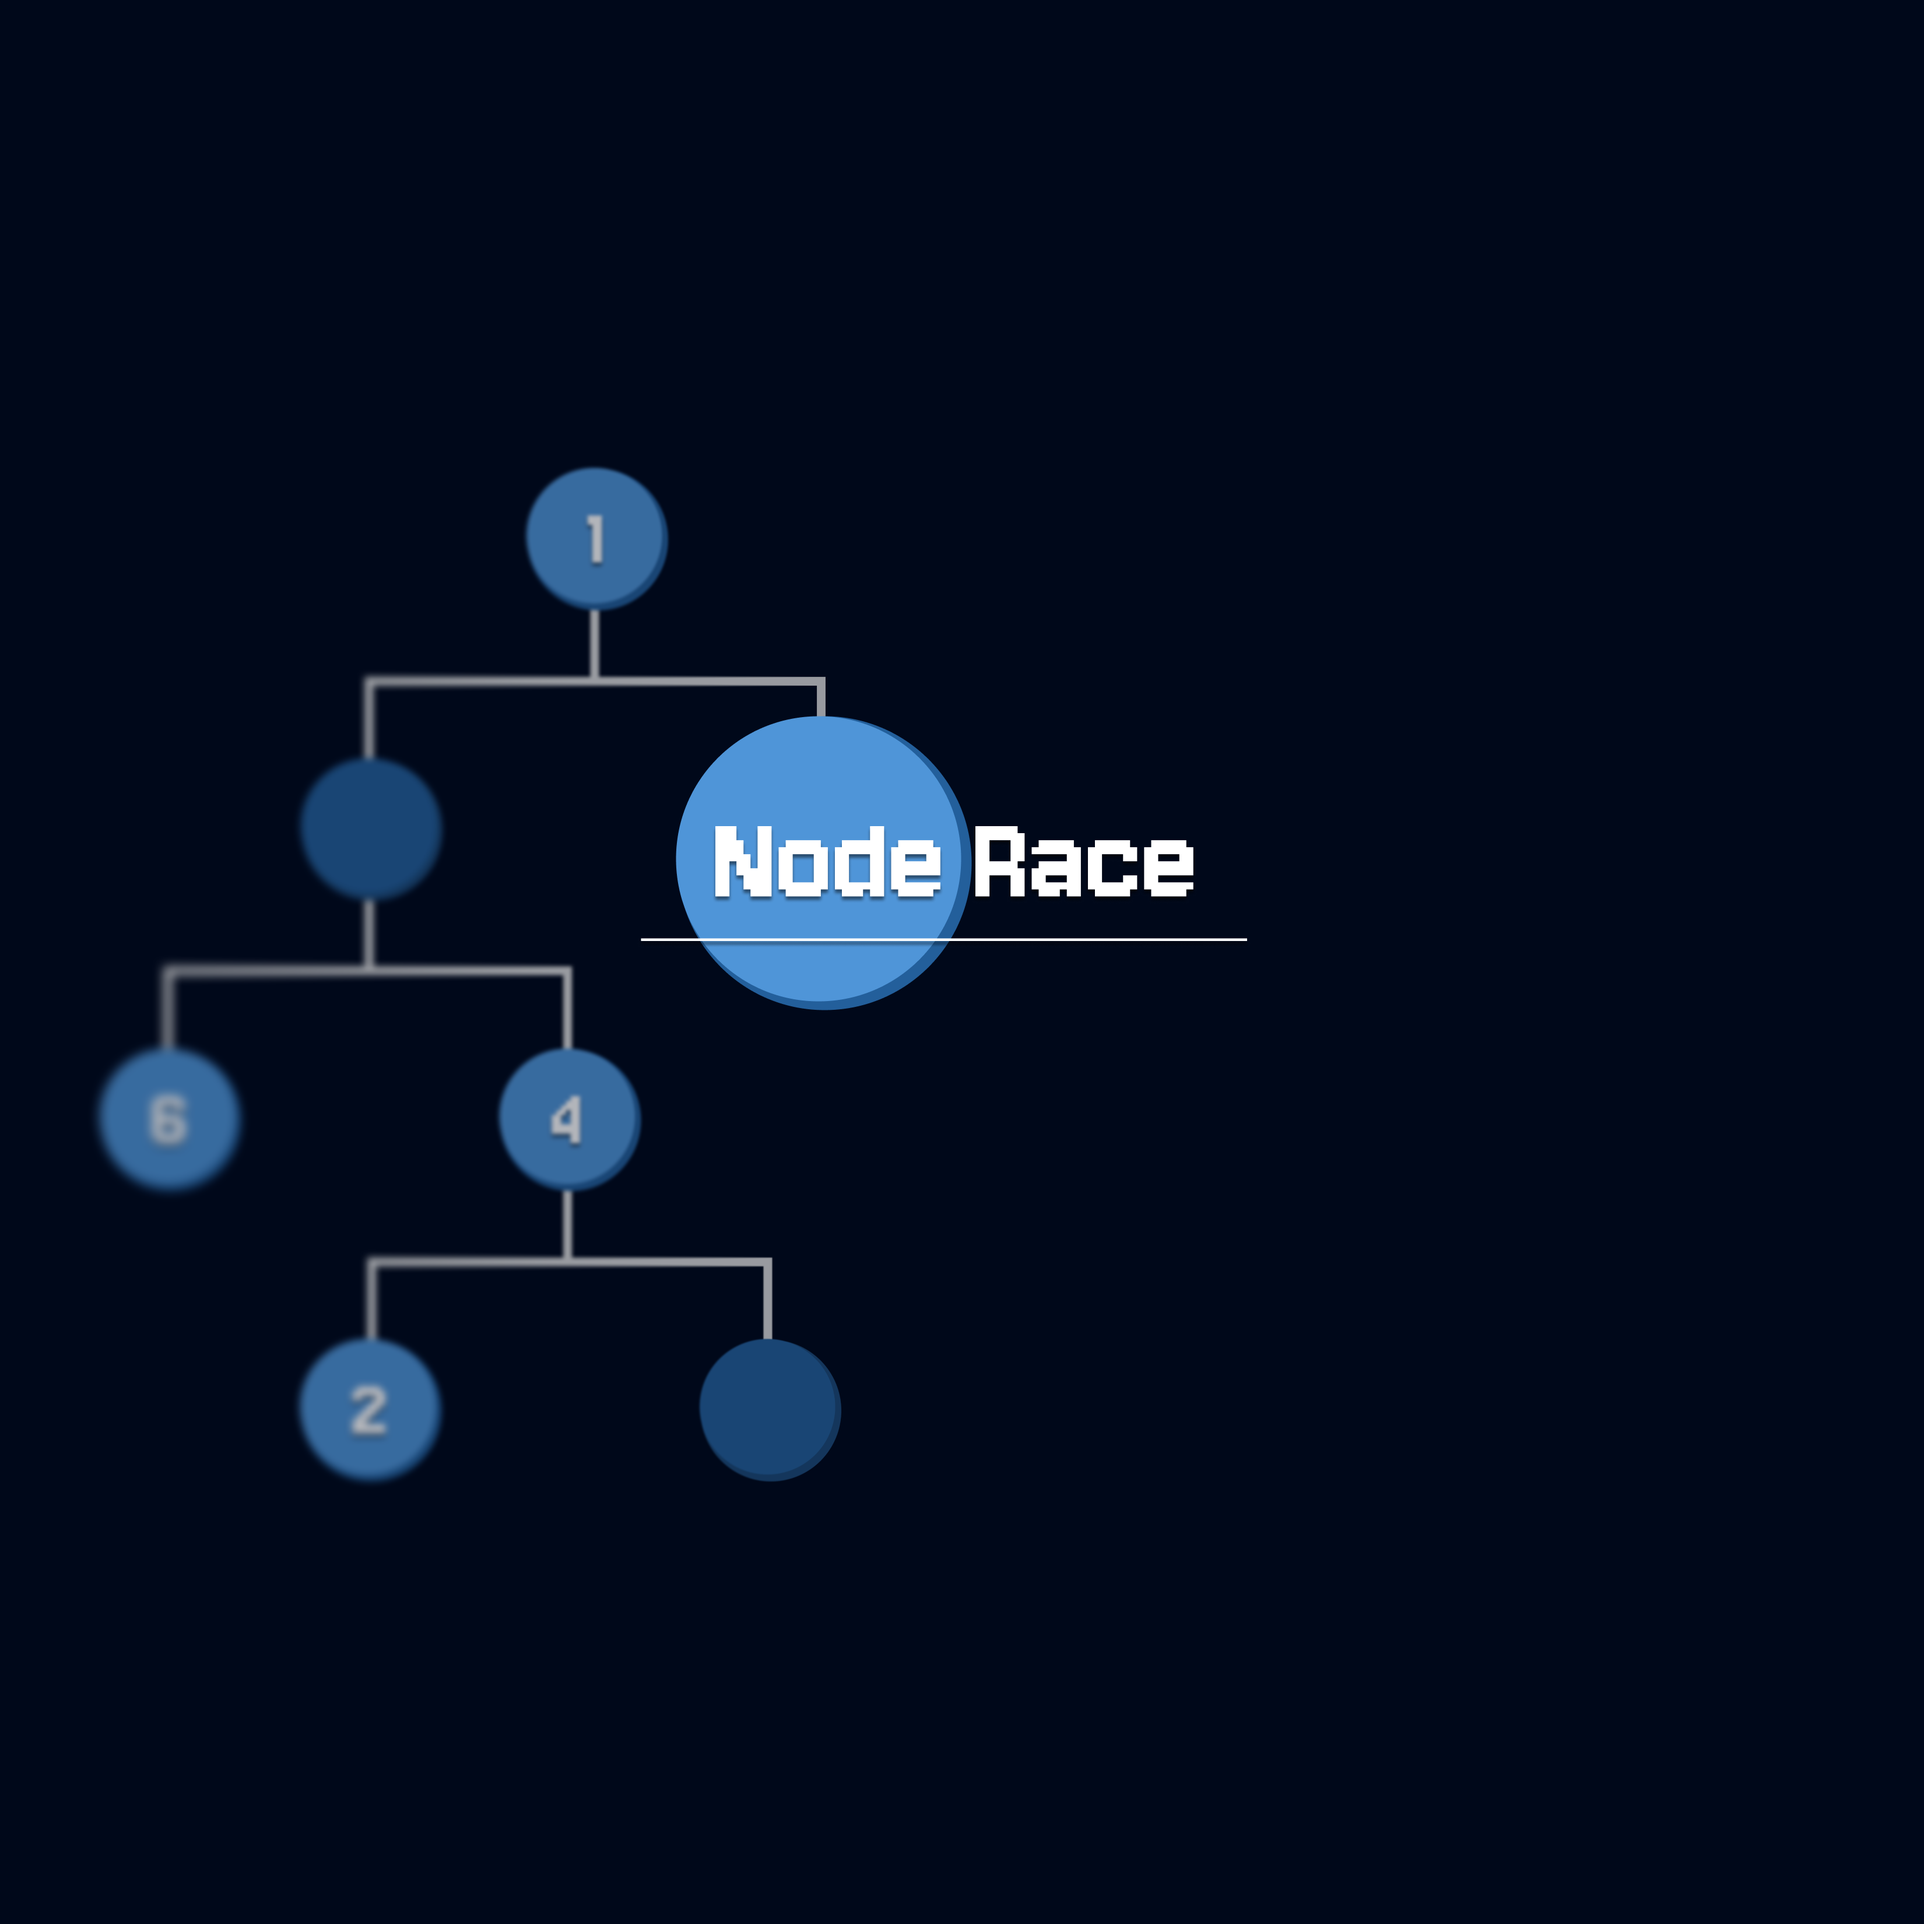
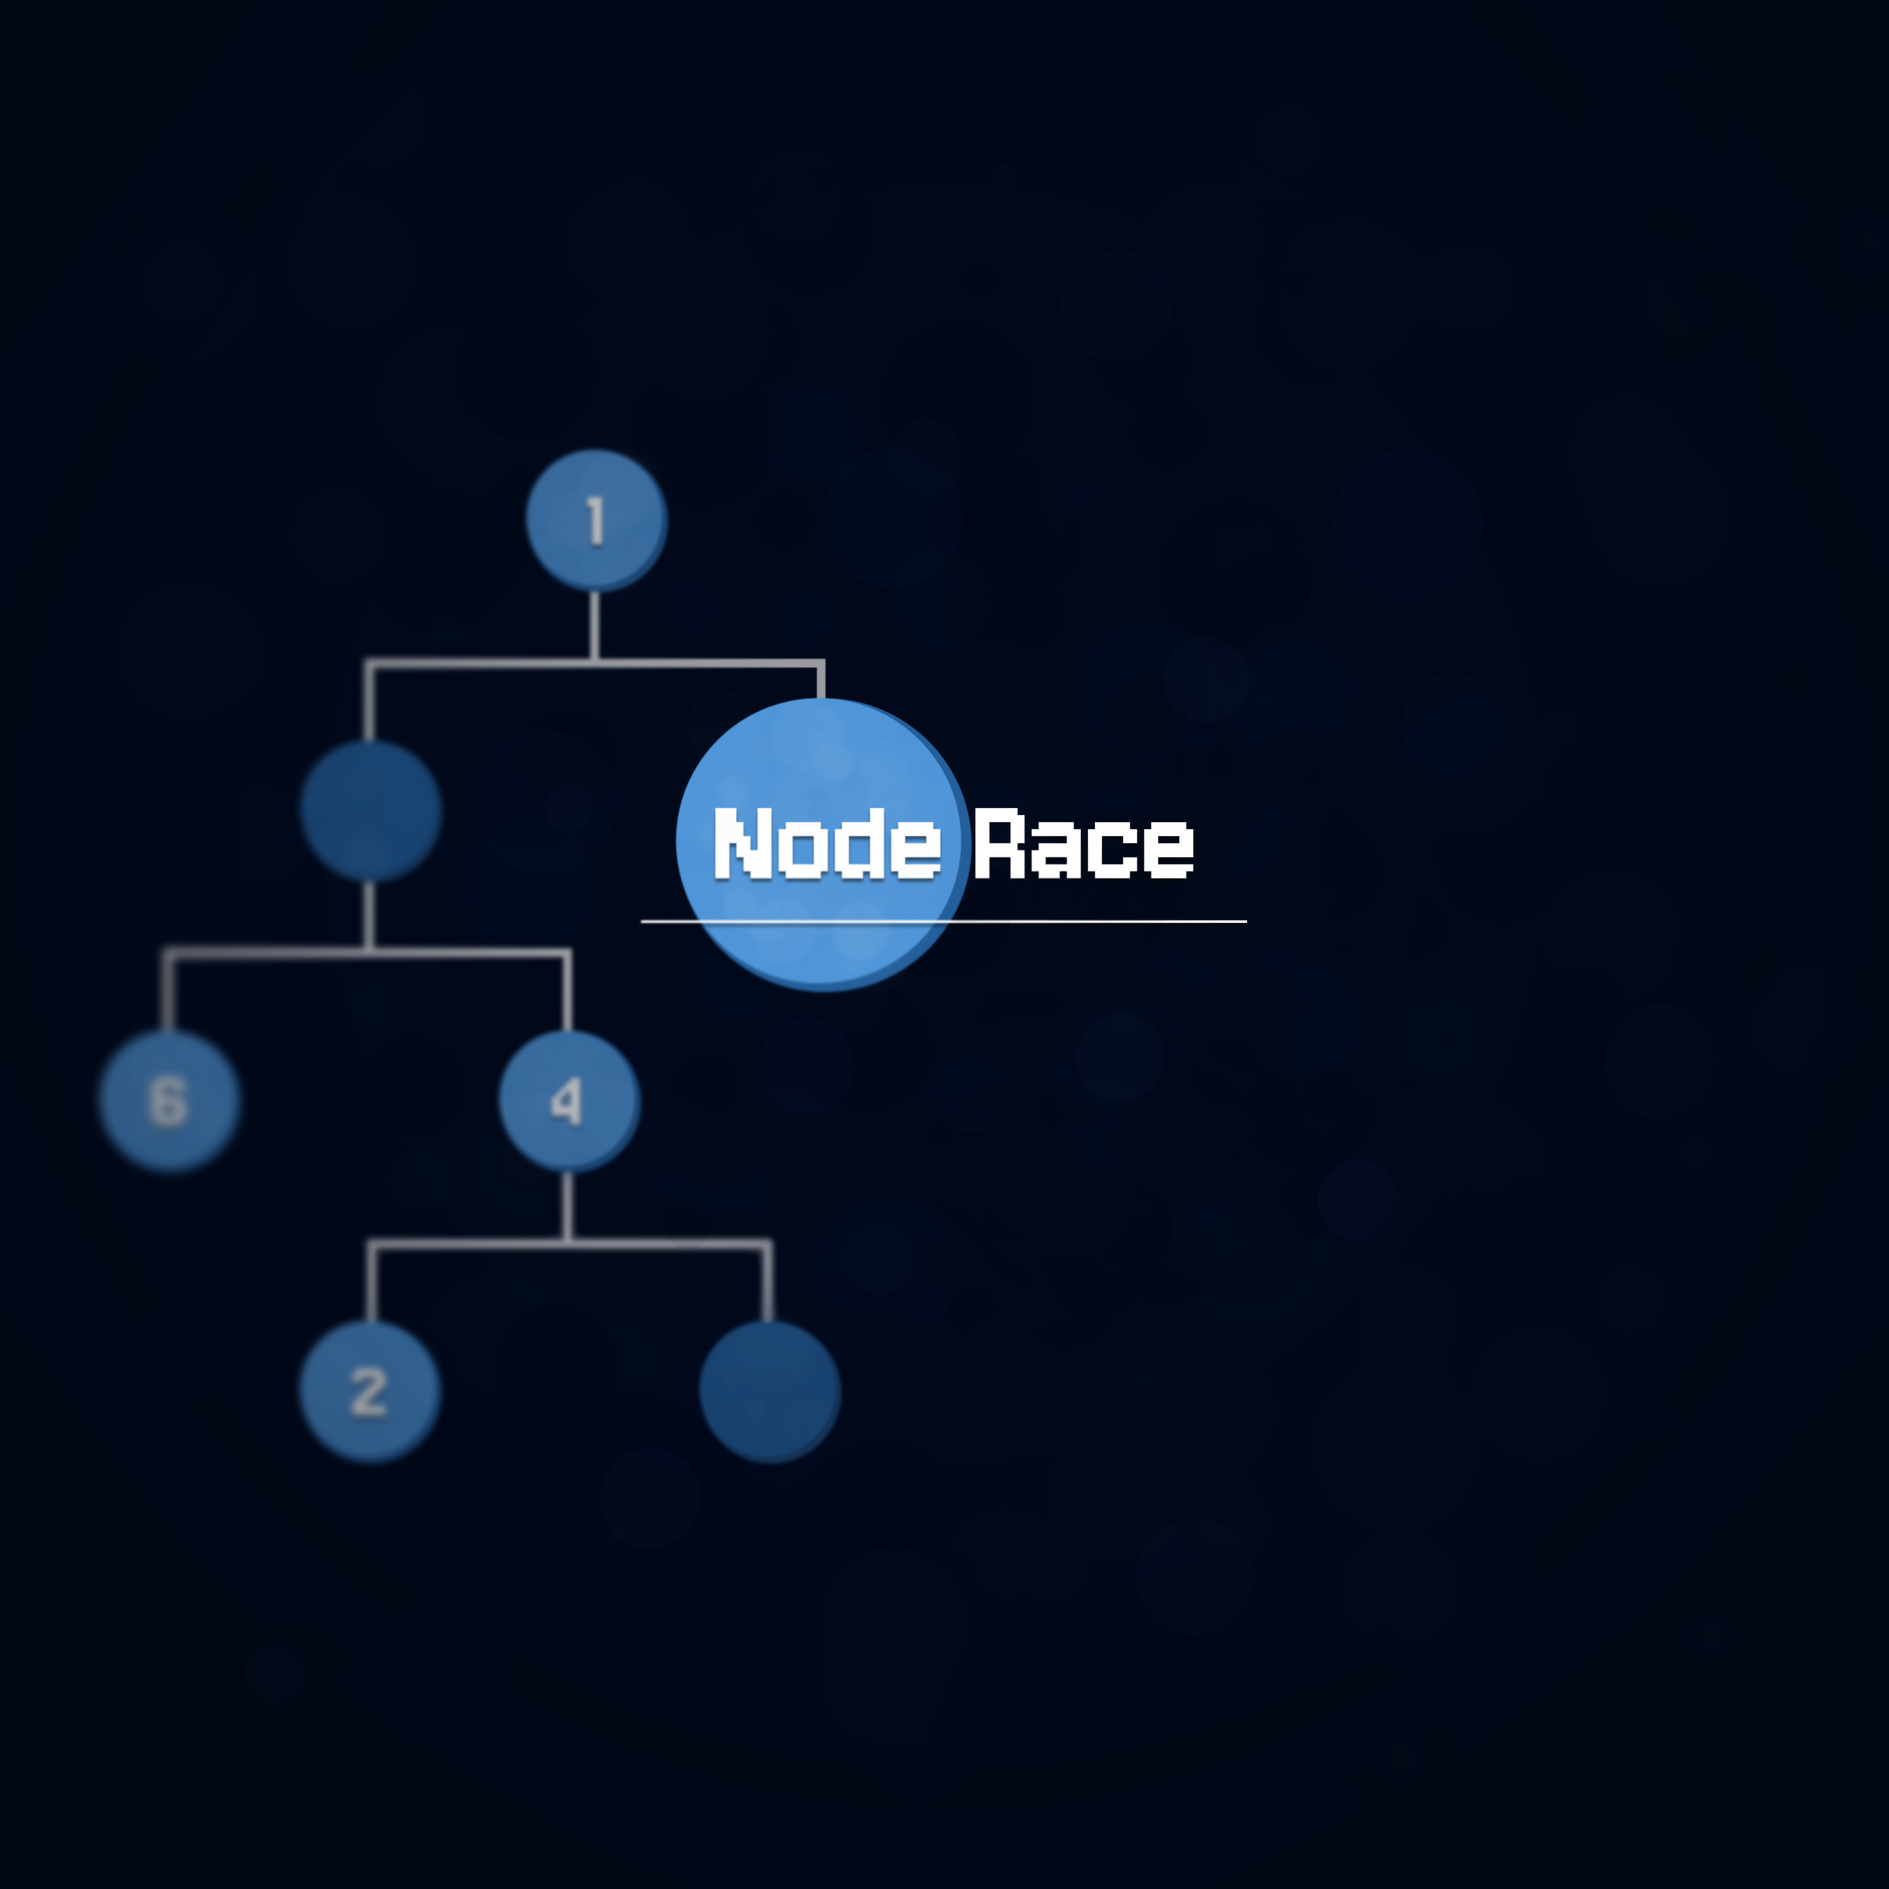
bug(frontend): Update assets and persistancy of hostview
- Updated images for the home page to enhance visual quality.
- Changed negative color in main.css to a new shade for better contrast.
- Adjusted background colors in HostView and PracticeView for improved aesthetics.
- Refactored PlayerAnswers and useHostSession to streamline answer handling and ensure data integrity.
- Added ScreenBackground component to QuestionView and PracticeView for consistent UI design.

diff --git a/frontend/src/types/useHostSession.ts b/frontend/src/types/useHostSession.ts
@@ -78,7 +78,7 @@ export function useHostSession() {
         // Reconstruct PlayerAnswers objects from saved data
         if (data.players) {
             playersData.value = data.players.map((player: any) =>
-                new PlayerAnswers(player.id, player.nickname, player.score, player.answers || [])
+                new PlayerAnswers(player.id, player.nickname, player.score, player.answers)
             );
         }
 
@@ -127,6 +127,21 @@ export function useHostSession() {
         // Set the lobby code from the active session
         lobbyCode.value = session.lobbyCode;
 
+        // If we restored players from storage, prime the session cache so future updates merge correctly
+        if (playersData.value.length) {
+            const restoredPlayers = playersData.value.map((player) =>
+                new PlayerAnswers(
+                    player.getId(),
+                    player.getNickname(),
+                    player.getScore(),
+                    [...player.getAnswers()]
+                )
+            );
+
+            session.playerQuestions.value = restoredPlayers;
+        }
+
+
         // Listen for analytics updates from the server and persist them
         session.addEventListener("ANALYTICS_UPDATED", (data) => {
             session.updateHostSessionData(data);
@@ -161,13 +176,30 @@ export function useHostSession() {
         watch(
             session.playerQuestions,
             (newPlayerData) => {
+                
+                const previousPlayersById = new Map(
+                    playersData.value.map((player) => [player.getId(), player])
+                );                
+                
                 // Create new PlayerAnswers objects from backend data
                 const updatedPlayers = newPlayerData.map((player: any) => {
+                    const playerId = player.id || player.getId?.() || '';
+                    const previousPlayer = previousPlayersById.get(playerId);
+
+                    const incomingAnswers = player.answers || player.getAnswers?.() || [];
+                    const hasIncomingAnswers = Array.isArray(incomingAnswers) && incomingAnswers.length > 0;
+
+                    const answersToUse = hasIncomingAnswers
+                        ? [...incomingAnswers]
+                        : previousPlayer
+                            ? [...previousPlayer.getAnswers()]
+                            : [];
+
                     return new PlayerAnswers(
-                        player.id || player.getId?.() || '',
+                        playerId,
                         player.nickname || player.getNickname?.() || '',
                         player.score || player.getScore?.() || 0,
-                        player.answers || player.getAnswers?.() || [],
+                        answersToUse,
                     );
                 }).sort((a, b) => b.getScore() - a.getScore()); // Sort by score descending
 

diff --git a/frontend/src/views/HostView.vue b/frontend/src/views/HostView.vue
@@ -632,7 +632,7 @@ const totalPlayers = computed(() => playersData.value.length);
 }
 
 .unanswered {
-    background: var(--participation-color);
+    background: rgba(255, 255, 255, 0.1);
 }
 
 .kick-button :deep(.btn-inner) {
@@ -697,7 +697,6 @@ const totalPlayers = computed(() => playersData.value.length);
 .question-analytics-item-box {
     display: flex;
     height: 30px;
-    background: #f0f0f0;
     overflow: hidden;
     overflow-x: hidden;
     overflow-y: auto;
@@ -706,7 +705,7 @@ const totalPlayers = computed(() => playersData.value.length);
 }
 
 .question-analytics-item-box-correct {
-    background: #139705;
+    background: var(--positive-color);
     color: white;
     display: flex;
     align-items: center;
@@ -716,7 +715,7 @@ const totalPlayers = computed(() => playersData.value.length);
 }
 
 .question-analytics-item-box-incorrect {
-    background: #AA0707;
+    background: var(--negative-color);
     color: white;
     display: flex;
     align-items: center;
@@ -726,7 +725,7 @@ const totalPlayers = computed(() => playersData.value.length);
 }
 
 .question-analytics-item-box-unanswered {
-    background: white;
+    background: rgba(255, 255, 255, 0.1);
 }
 
 .analytics-header {
@@ -734,6 +733,9 @@ const totalPlayers = computed(() => playersData.value.length);
     align-items: center;
     justify-content: space-between;
     width: 100%;
-    padding-right: 2.5rem;
+}
+
+.host-timer {
+    margin-right: 1.0rem;
 }
 </style>

diff --git a/frontend/src/types/PlayerAnswers.ts b/frontend/src/types/PlayerAnswers.ts
@@ -3,17 +3,22 @@ import { Player } from './Player';
 export class PlayerAnswers extends Player {
     private answers: Array<boolean | null>;
     constructor(id: string, nickname: string, score: number, answers: Array<boolean | null>) {
-        
+
         score = Math.round(score);
-        
+
         super(id, nickname, score);
-        
-        // Start with 5 nulls, then overlay any provided answers
-        this.answers = [null, null, null, null, null];
-        answers.forEach((answer, index) => {
-            if (index < 5 && (answer === true || answer === false)) {
-                this.answers[index] = answer;
+
+        const normalizedAnswers = Array.isArray(answers) ? answers : [];
+        const length = Math.max(5, normalizedAnswers.length);
+
+        this.answers = Array.from({ length }, (_, index) => {
+            const value = normalizedAnswers[index];
+
+            if (value === true || value === false) {
+                return value;
             }
+
+            return null;
         });
     }
 

diff --git a/frontend/src/types/HostSession.ts b/frontend/src/types/HostSession.ts
@@ -42,17 +42,6 @@ export class HostSession extends Session {
             this.playerQuestions.value = this.playerQuestions.value.filter(player => player.id !== data.playerId);
         });
 
-        // Handle receiving all players data (typically on initial load or refresh)
-        this.addEventListener("ALL_PLAYERS", (data) => {
-            if (data.players) {
-                // Convert server player data to PlayerAnswers objects
-                const playerObjects = data.players.map((serverPlayer: any) =>
-                    new PlayerAnswers(serverPlayer.id, serverPlayer.name, parseInt(serverPlayer.score) || 0, [])
-                );
-                this.playerQuestions.value = playerObjects;
-            }
-        });
-
         // Listen for server error messages
         this.addEventListener("SERVER_ERROR", (data) => {
             console.error("Server error received:", data.message);

diff --git a/frontend/src/views/PracticeView.vue b/frontend/src/views/PracticeView.vue
@@ -1,4 +1,5 @@
 <template>
+    <ScreenBackground blur />
     <ReturnHomeComponent skipConfirm />
     <div class="question-view">
         <h2 v-if="question">{{ question.title }}</h2>
@@ -104,6 +105,7 @@ import TreeNode from '@/components/TreeNode.vue';
 import TutorialPopup from '@/components/TutorialPopup.vue';
 import { Question } from '@/types/Question';
 import { AlertService } from '@/types/AlertService';
+import ScreenBackground from '@/components/ScreenBackground.vue';
 // --- Types and Adapters ---
 import { QuestionAdapter, BackendQuestion } from '@/types/QuestionAdapter';
 import APIManager from '@/types/APIManager';

diff --git a/frontend/src/views/QuestionView.vue b/frontend/src/views/QuestionView.vue
@@ -1,4 +1,5 @@
 <template>
+    <ScreenBackground blur />
     <ReturnHomeComponent 
         :onConfirm="handleReturnHome"/>
     <div class="question-view">
@@ -53,6 +54,7 @@ import NavigateLeft from '@/assets/navigate-left.svg';
 import NavigateRight from '@/assets/navigate-right.svg';
 import { QuestionAdapter } from '@/types/QuestionAdapter';
 import TutorialPopup from '@/components/TutorialPopup.vue';
+import ScreenBackground from '@/components/ScreenBackground.vue';
 
 const router = useRouter();
 const { questions, gameTimer } = usePlayerSession();

diff --git a/frontend/src/assets/styles/main.css b/frontend/src/assets/styles/main.css
@@ -5,7 +5,7 @@
   --tertiary-color: #1c4a78;
   --accent-color: #ffff;
   --positive-color: #139705;
-  --negative-color: #aa0707;
+  --negative-color: #D41159;
   --background-color: #00081a;
   --text-color: #ffff;
   --disabled: #666666;
